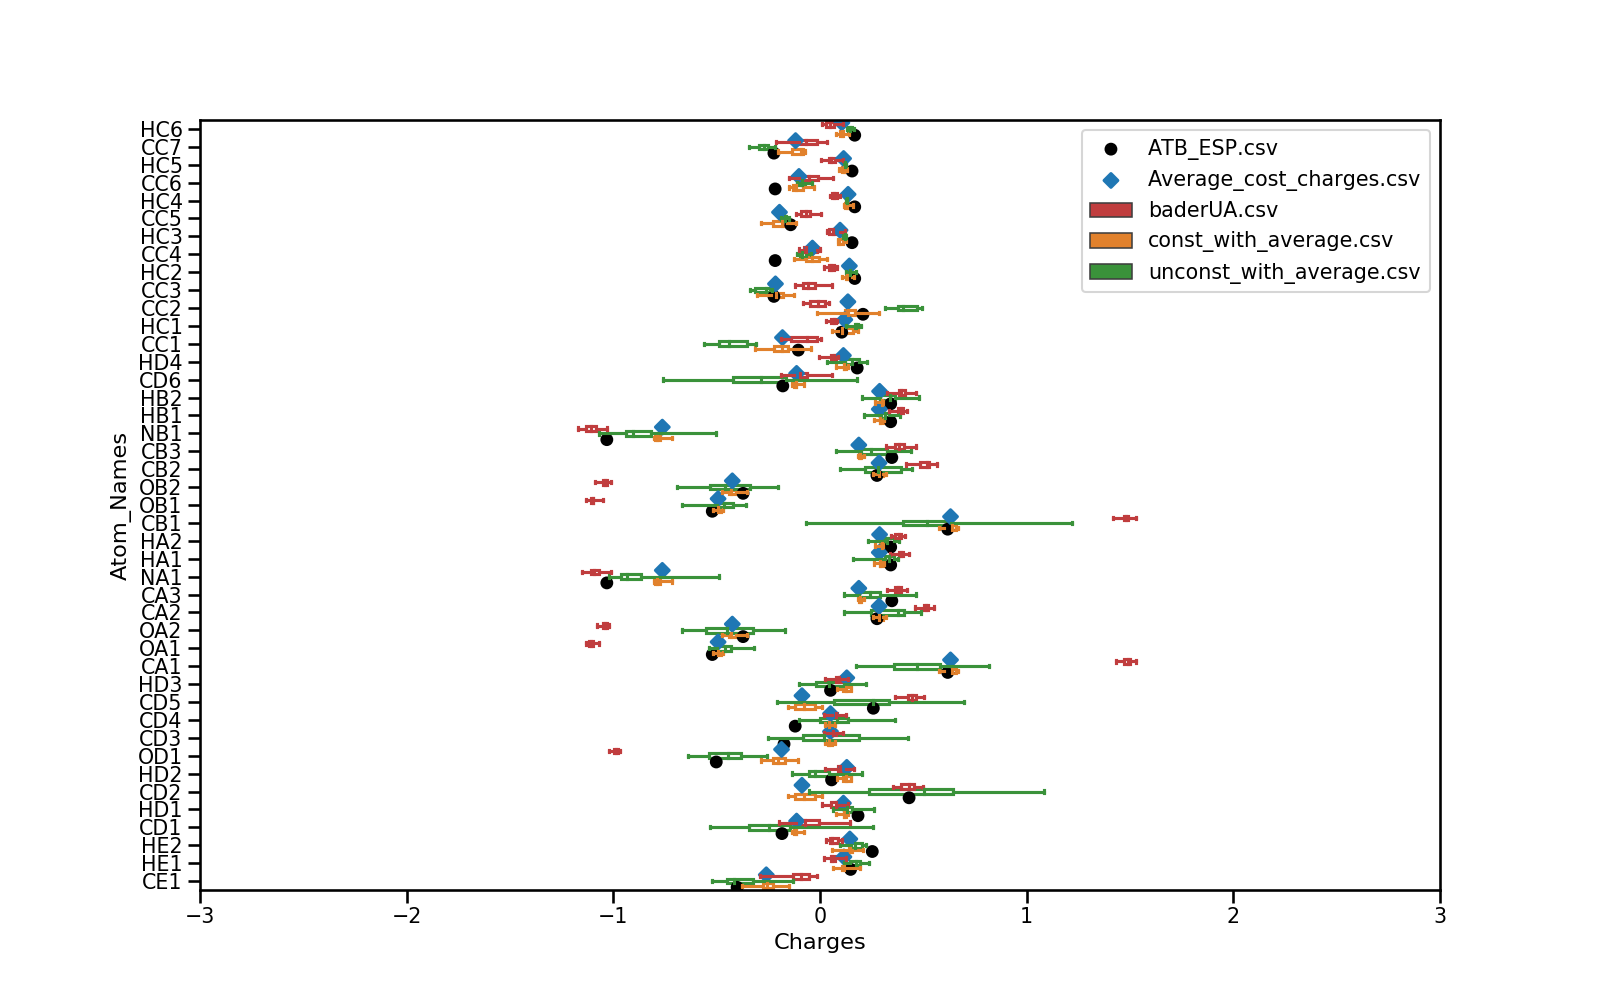
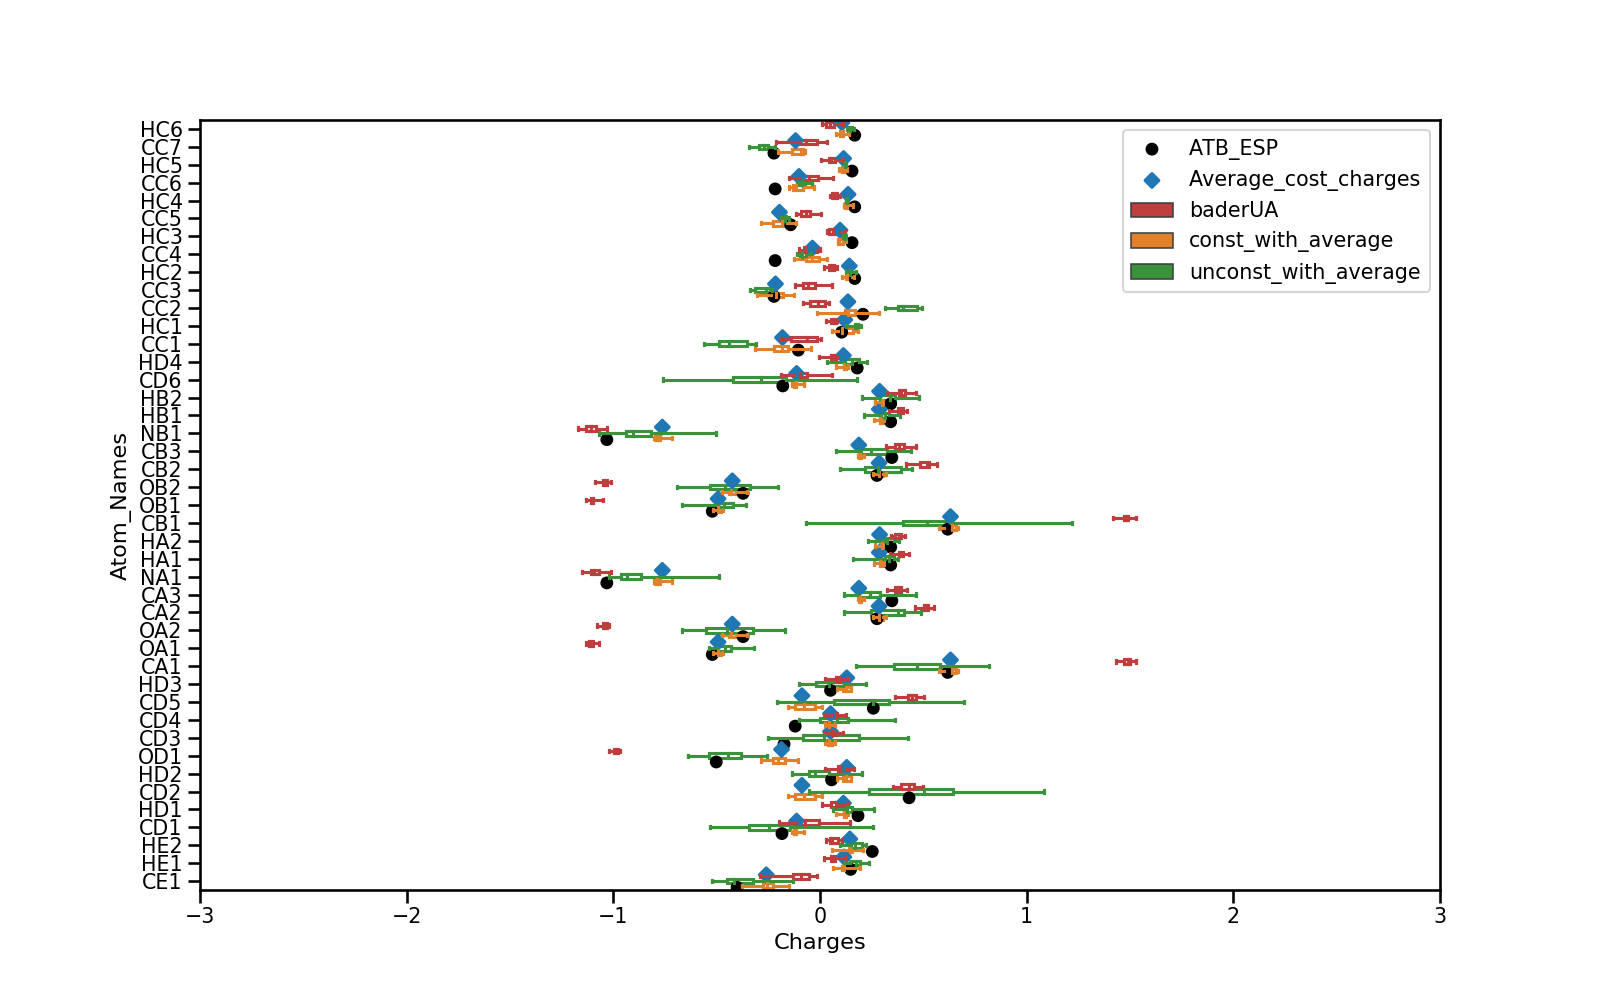
remove .csv from legend

Changed region(s): [[0.6562, 0.124, 0.9062, 0.279]]

diff --git a/plot_comparison.py b/plot_comparison.py
@@ -77,7 +77,7 @@ def read(path):
       if 'Mean' in c:
          df = df.drop(c, axis=1)
    df = pd.melt(df, id_vars=['atom', 'resid'])
-   df['Method']=path.split('/')[-1]
+   df['Method']=path.split('/')[-1][:-4]
    df = df.rename(index=str, columns={'atom': 'Atom_Names', 'charges': 'Charges', 
                                       'value': 'Charges'})
    return df
